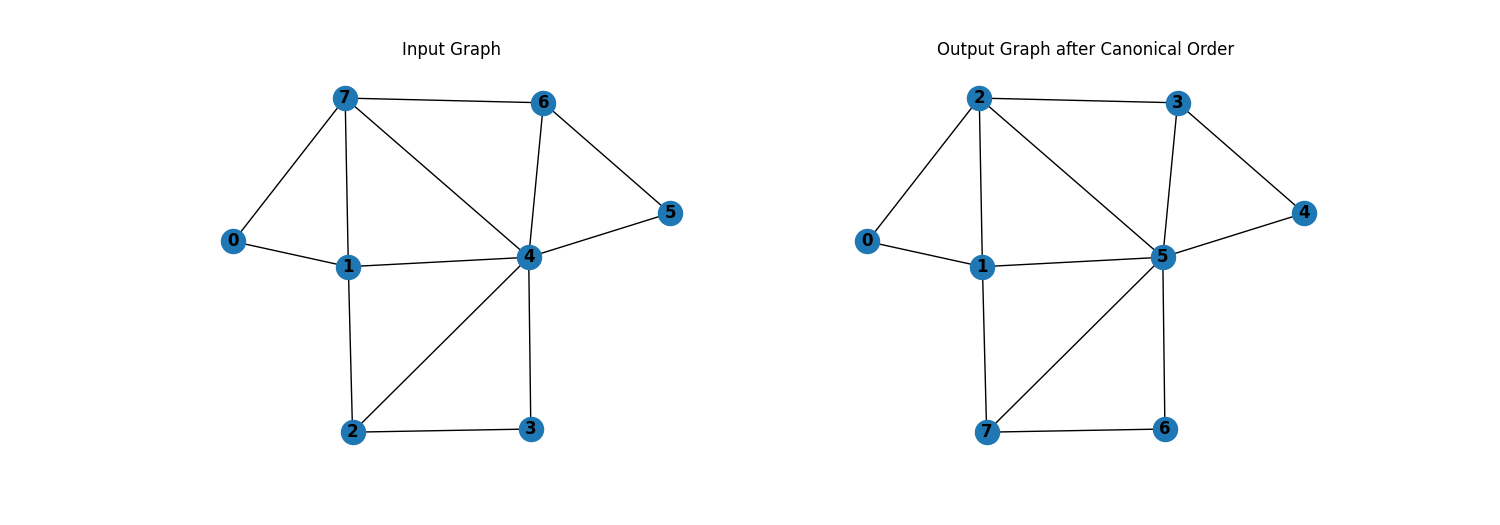
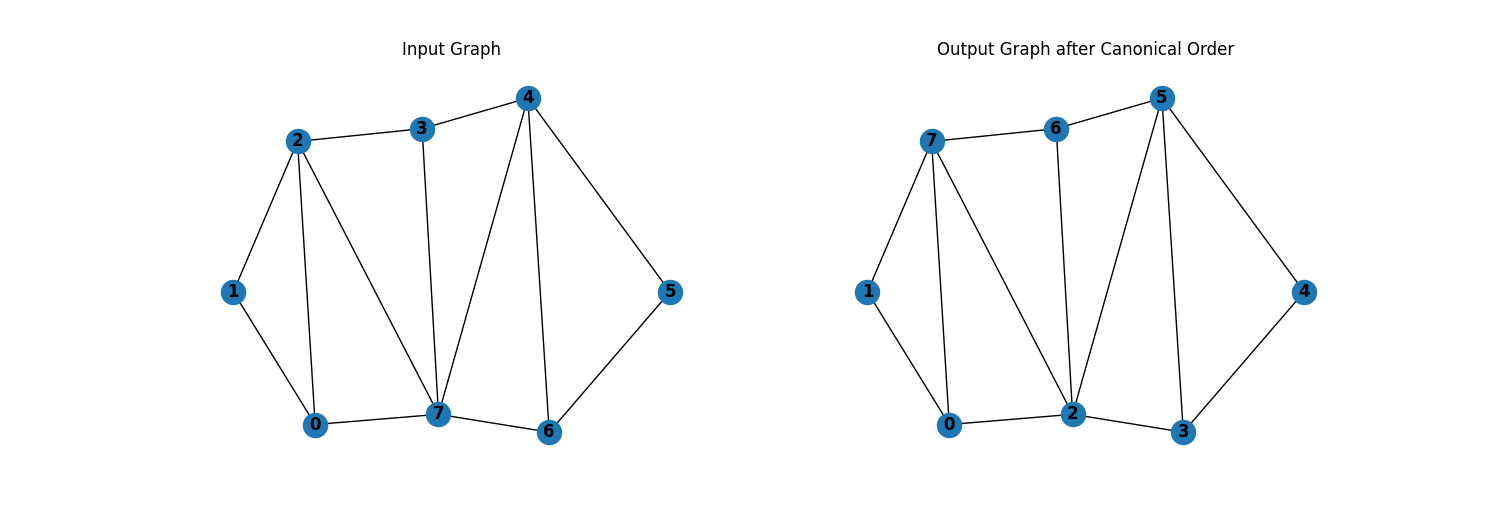
multiple

diff --git a/main.py b/main.py
@@ -63,6 +63,7 @@ def run():
     gclass = gui.gui_class() 
 
     while (gclass.command!="end"):
+
         if(gclass.command=="dissection"):
             make_dissection_corridor(gclass)
         else:
@@ -184,13 +185,14 @@ def run():
                         new_graph.final_traversal=inputgraph.get_final_traversal(new_graph)
                         draw.draw_rdg(new_graph, 1, gclass.pen, 1, gclass.value[6],[],origin-300)
 
+                
             elif (gclass.command == "single"):  # Single Irregular Dual/Floorplan
                 if (gclass.value[4] == 0):  # Non-Dimensioned single dual
                     start = time.time()
                     graph.irreg_single_dual()
                     end = time.time()
                     print_gui("Time taken: " + str((end - start) * 1000) + " ms")
-                    gclass.output_data.append(graph) #TODO: check
+                    gclass.output_data.append(graph) 
                     graph.final_traversal=inputgraph.get_final_traversal(graph)
                     draw.draw_rdg(graph
                                   , 1
@@ -230,6 +232,8 @@ def run():
                             ,gclass.value[6]
                             ,[]
                             ,origin)
+                    
+                
                             
             elif gclass.command == "letter_shape":
                 if(gclass.value[4] == 0): #Non-Dimensioned Letter Shape
@@ -316,6 +320,8 @@ def run():
                                 , []
                                 , origin)
                     
+                
+                    
             elif(gclass.command == "multiple_l"):#Multiple L-shaped Floorplan
                 if(gclass.value[4] == 0):#Non-Dimensioned multiple dual
                     start = time.time()
@@ -329,18 +335,19 @@ def run():
                         gclass.multiple_output_found = 1
                         graph_new.final_traversal = inputgraph.get_final_traversal(graph_new)
                         gclass.output_data.append(graph_new)
-                        draw.draw_rdg(graph_new
-                            ,idx+1
-                            ,gclass.pen
-                            ,1
-                            ,gclass.value[6]
-                            ,[]
-                            ,origin)
-                        # origin += 1000
-                        gclass.ocan.add_tab()
-                        gclass.pen = gclass.ocan.getpen()
-                        gclass.pen.speed(0)
+                        # draw.draw_rdg(graph_new
+                        #     ,idx+1
+                        #     ,gclass.pen
+                        #     ,1
+                        #     ,gclass.value[6]
+                        #     ,[]
+                        #     ,origin)
+                        # # origin += 1000
+                        # gclass.ocan.add_tab()
+                        # gclass.pen = gclass.ocan.getpen()
+                        # gclass.pen.speed(0)
                         
+                
                                     
             elif (gclass.command == "staircase_shaped"):
                 start = time.time()
@@ -354,6 +361,7 @@ def run():
                               , gclass.value[6]
                               , []
                               , origin)
+                
 
             elif(gclass.command == "multiple"):#Multiple Irregular Dual/Floorplan
                 if(gclass.value[4] == 0):#Non-Dimensioned multiple dual
@@ -506,6 +514,10 @@ def run():
                     
                     delete_file(input_path)
                     delete_file(output_path)
+
+                    gclass.output_data = []
+                    gclass.multiple_output_found = 0
+                    
                             
             elif (gclass.command == "multiple_oc"):
                 if (gclass.value[4] == 0):  # Non-Dimensioned multiple dual
@@ -569,6 +581,7 @@ def run():
                                 ,gclass.value[6]
                                 ,[]
                                 ,origin)
+                
             
             elif (gclass.command == "poly"):  # Polygonal Floorplan
                 start = time.time()
@@ -582,6 +595,8 @@ def run():
                         ,gclass.value[6]
                         ,[]
                         ,origin,gclass.outer_boundary, gclass.shape)
+                
+                
                 
             elif (gclass.command == "door_connectivity"):  # Door Connectivity Floorplan
                 start = time.time()
@@ -612,18 +627,23 @@ def run():
                                 , gclass.value[6]
                                 ,[]
                                 , origin- 300)
+                
 
             gclass.time_taken = (end-start)*1000
             gclass.num_rfp = len(graph.graph_list)
             gclass.pdf_colors = gclass.value[6][0]
             gclass.output_found = 1
-
+        
+        
         gclass.root.wait_variable(gclass.end)
         gclass.graph_ret()
         gclass.ocan.add_tab()
         gclass.pen = gclass.ocan.getpen()
         gclass.pen.speed(0)
+        # gclass.multiple_output_found = 0
+        # gclass.output_data = []
 
+        
         # gclass.ocan.tscreen.resetscreen()
 
 

diff --git a/pythongui/catalogue_maker.py b/pythongui/catalogue_maker.py
@@ -391,6 +391,7 @@ def generate_catalogue(edges, num_rfp, time_taken, output_data, dimensional_cons
                 j += 1
     # pdf.output('latest_catalogue.pdf','F')
     save(pdf)
+    
 
 def generate_catalogue_dimensioned(num_rfp, output_data, dimensional_constraints, is_rb = False, edges=None, time_taken=None, fpcnt = None, room_name = None):
     print("[LOG] Downloading Dimensioned Catalogue")

diff --git a/pythongui/gui.py b/pythongui/gui.py
@@ -1935,7 +1935,7 @@ class gui_class:
             self.canvasForOuterBoundary.create_line([(0, i), (w, i)], tag='grid_line')
 
     def cano_out_bdry(self):
-        self.shapes.set("Custom");
+        self.shapes.set("Custom")
         self.top = tk.Toplevel(self.root, width=300, height=300)
         root = self.top
         root.title('Boundary of Outer Structure')
